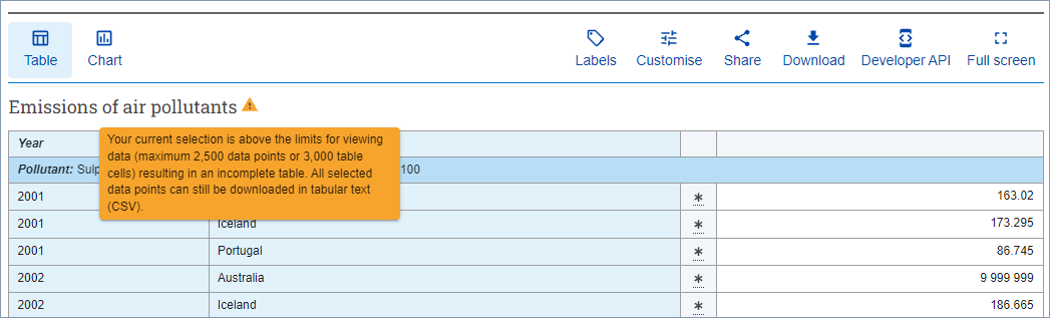
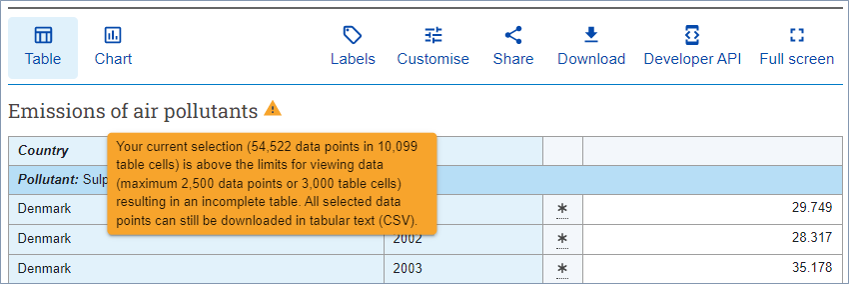
Table warning message

diff --git a/content/using-de/viewing-data/preview-table/incomplete-data.md b/content/using-de/viewing-data/preview-table/incomplete-data.md
@@ -6,15 +6,20 @@ weight: 2700
 
 ---
 
->Released in [February 28, 2020 Release .Stat Suite JS 4.0.0](https://sis-cc.gitlab.io/dotstatsuite-documentation/changelog/#february-28-2020) and enhanced with [data-explorer#403](https://gitlab.com/sis-cc/.stat-suite/dotstatsuite-data-explorer/-/issues/403) in [April 1, 2021 Release .Stat Suite JS 7.2.0](https://sis-cc.gitlab.io/dotstatsuite-documentation/changelog/#april-1-2021)
+>*Version history:*  
+> Extended with the total number of available observations and table cells in [December 14, 2021 Release .Stat Suite JS 11.0.0](https://sis-cc.gitlab.io/dotstatsuite-documentation/changelog/#december-14-2021)  
+> Improved in [April 1, 2021 Release .Stat Suite JS 7.2.0](https://sis-cc.gitlab.io/dotstatsuite-documentation/changelog/#april-1-2021)  
+> Introduced in [February 28, 2020 Release .Stat Suite JS 4.0.0](https://sis-cc.gitlab.io/dotstatsuite-documentation/changelog/#february-28-2020)  
 
 Users are informed when data in the table preview or chart views are incomplete.  
 Data in table or chart views can be incomplete when the current data selection from the filters is too big to respect the maximum number of observations (see related Data Explorer configuration [documentation](https://sis-cc.gitlab.io/dotstatsuite-documentation/configurations/de-configuration/#maximum-number-of-observations-in-tables-and-charts)) or (for tables only) to fit into the maximum table size (see related Data Explorer configuration [documentation](https://sis-cc.gitlab.io/dotstatsuite-documentation/configurations/de-configuration/#maximum-number-of-cells-in-table)).  
 
-In cases when one of these two limits is reached and the data returned in the visualisation page are incomplete, then an informative message is displayed behind a tooltip warning icon next to the data view title: `"You current selection is above the limits for viewing data (maximum [X,XXX] data points or above [X,XXX] table cells) resulting in an incomplete table. All selected data points can still be downloaded in tabular text (CSV)."`
+In cases when one of these two limits is reached and the data returned in the visualisation page are incomplete, then an informative message is displayed behind a tooltip warning icon next to the data view title. It includes the **total number of observations available based on the current selection**, and the **current number of table cells**.  
+Whenever the selection using the filters is sufficiently reduced in order to stay below the above limits, then the warning icon disappears.
+
+Example of the default message in English:  
+`"You current selection (N data points in N table cells) is above the limits for viewing data (maximum [X,XXX] data points or [X,XXX] table cells) resulting in an incomplete table. All selected data points can still be downloaded in tabular text (CSV)."`
 
 ![DE incomplete data message](/dotstatsuite-documentation/images/de-incomplete-data.png)  
 
-Note that the Excel download file will also contain the incomplete data only.   
-
-Whenever the selection using the filters is sufficiently reduced in order to stay below the above limits, then the warning icon disappears.
+**Note** that the Excel download file will also contain the incomplete data.   
